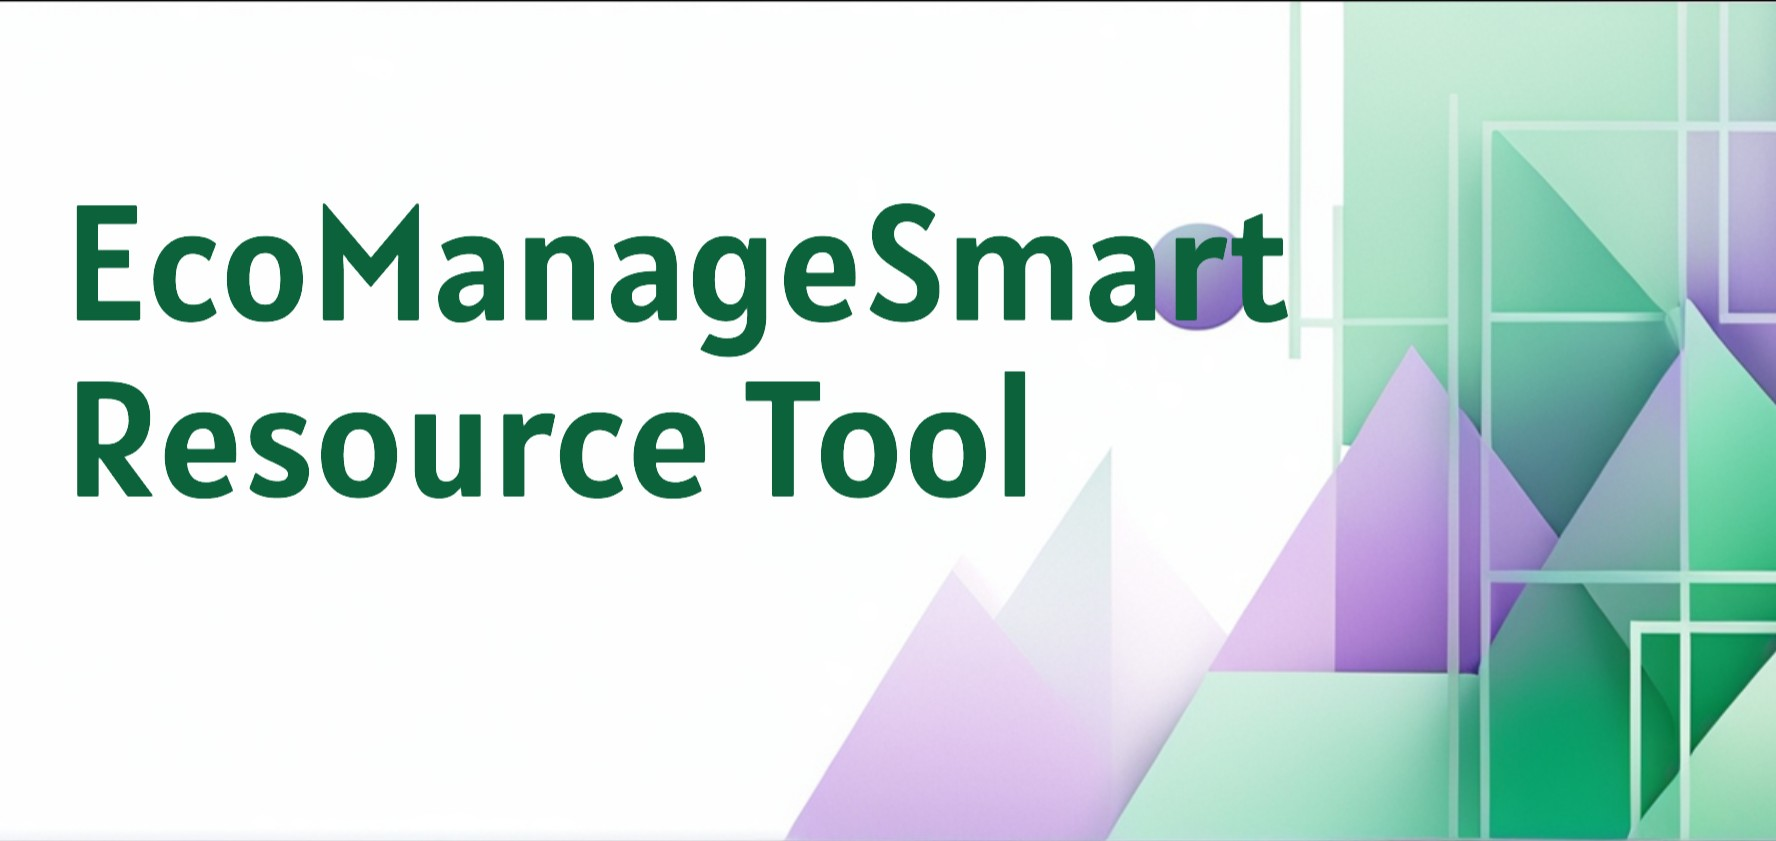
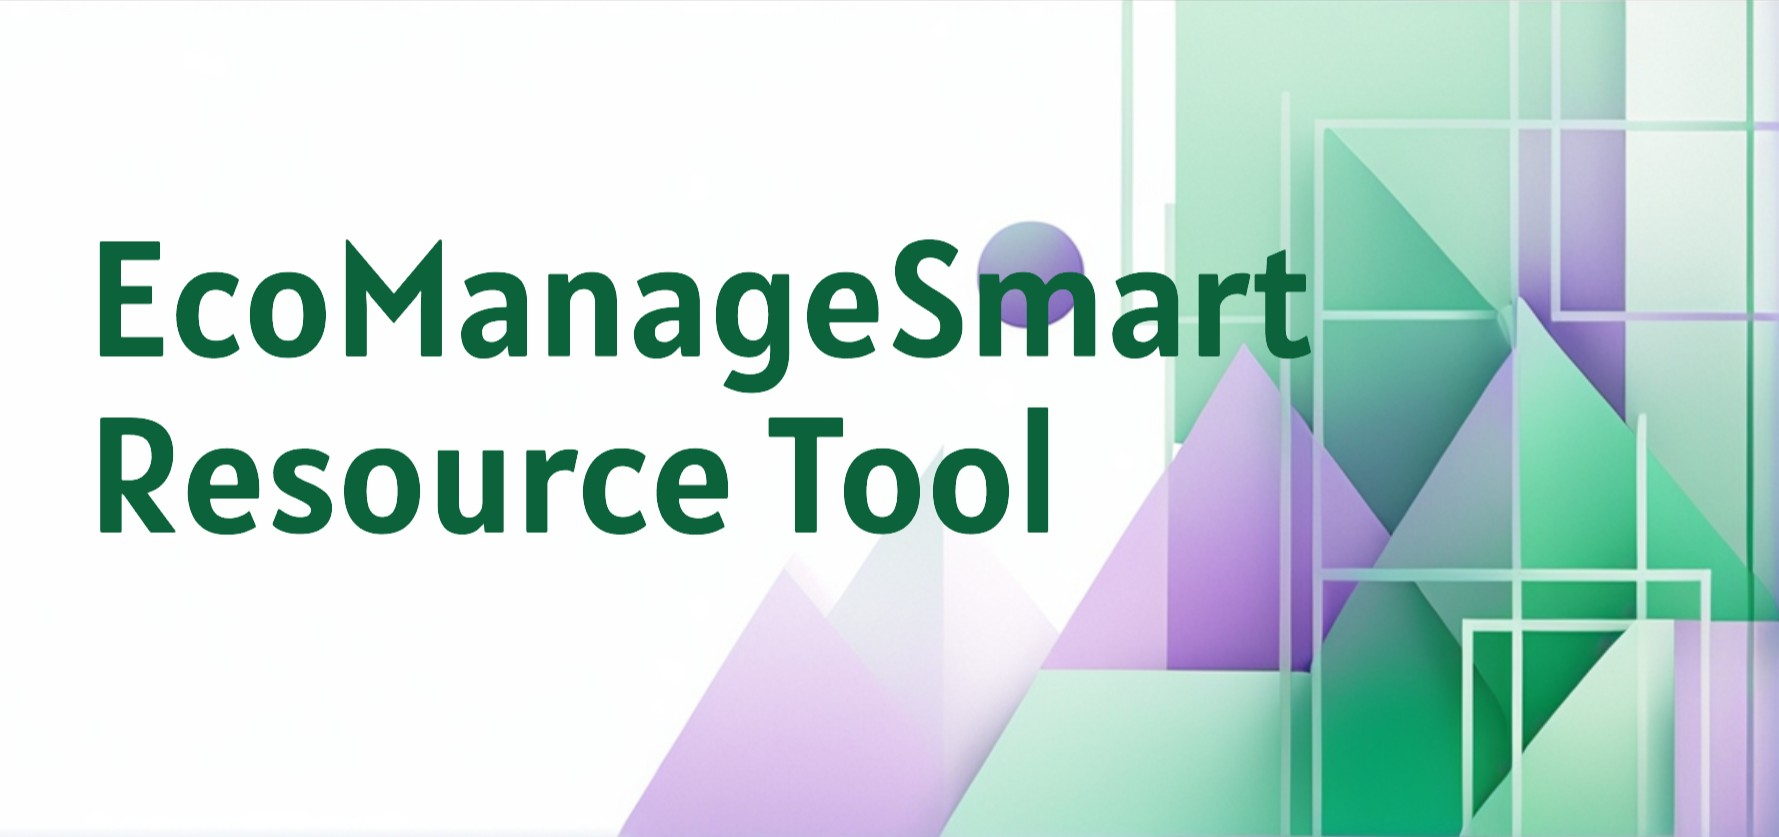
structure audit and add container files

diff --git a/client/src/api/analytics.ts b/client/src/api/analytics.ts
@@ -66,16 +66,6 @@ export const getConsumptionAnalytics = (period: string) => {
 
 export const getInsight = async (data: any) => {
   console.log('Fetching insight data', data);
-  return new Promise((resolve) => {
-    setTimeout(() => {
-        const result = {
-          insight: 'Production and Consumption Insight'
-          // Add more insight data as needed
-        };
-        resolve(result); // Fix: Resolve the result directly
-    }, 1000); // Simulating a 1-second delay
-  });
-
   try {
     const response = await api.post('/insight', data);
     return response.data;

diff --git a/client/vite.config.ts b/client/vite.config.ts
@@ -13,11 +13,11 @@ export default defineConfig({
     host: true,
     proxy: {
       '/api': {
-        target: 'http://localhost:3000',
+        target: 'http://server:3000',
         changeOrigin: true,
       },
       '/logs': {
-        target: 'http://localhost:4444',
+        target: 'http://server:4444',
         changeOrigin: true,
       }
     },

diff --git a/client/src/contexts/AuthContext.tsx b/client/src/contexts/AuthContext.tsx
@@ -24,7 +24,7 @@ export function AuthProvider({ children }: { children: ReactNode }) {
         localStorage.setItem("accessToken", response.accessToken);
         setIsAuthenticated(true);
       } else {
-        throw new Error(error?.response?.data?.message || 'Login failed');
+        throw new Error('Login failed');
       }
     } catch (error) {
       localStorage.removeItem("refreshToken");